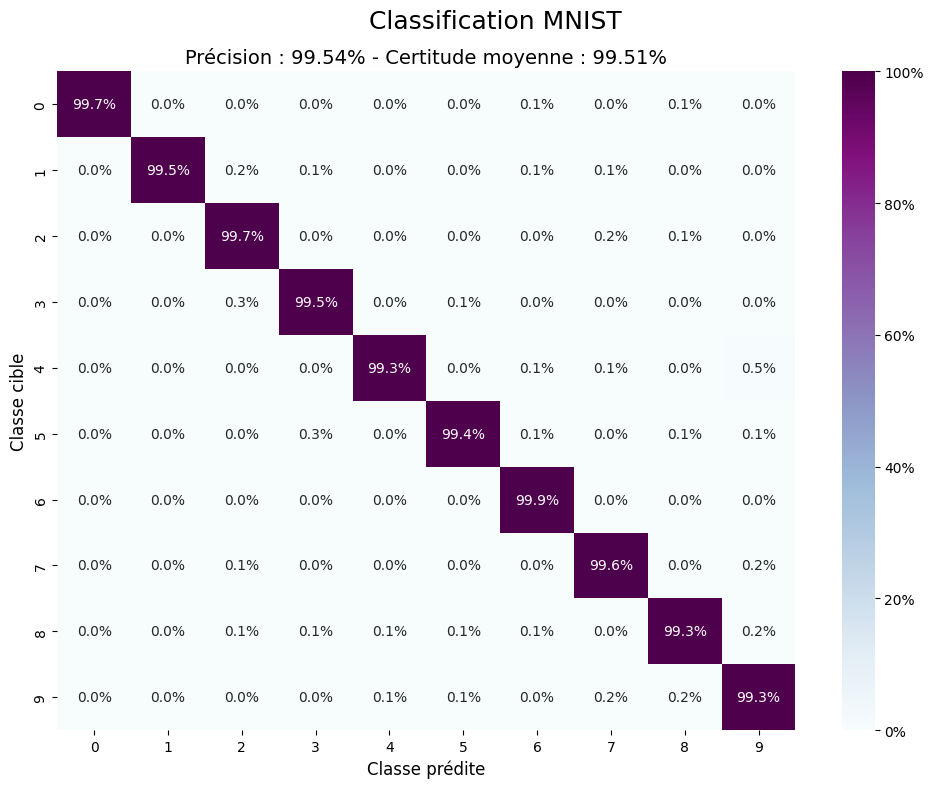
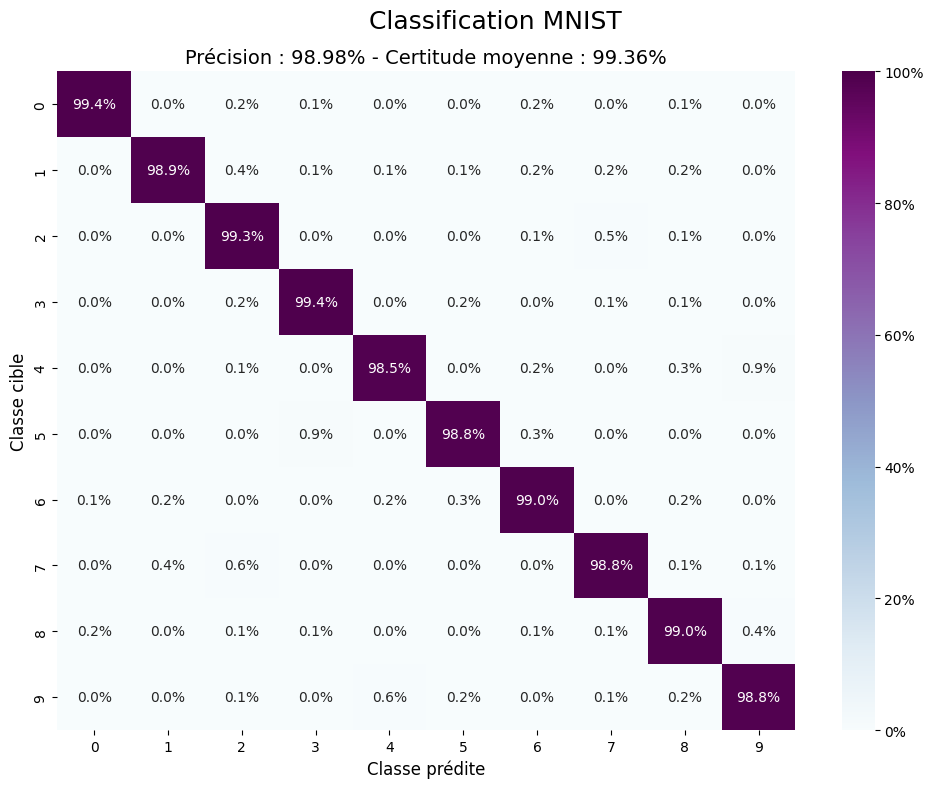
Small changes

diff --git a/Sources/code/other/dataset_classification.py b/Sources/code/other/dataset_classification.py
@@ -15,8 +15,8 @@ classifier, _ = models.select_model(models.list_models(
 (x_train, y_train), (x_test, y_test) = tf.keras.datasets.mnist.load_data()
 x_train, x_test = utils.preprocess_dataset(x_train, x_test)
 
-guessed, _, certainties = utils.classify(x_train, classifier)
-cm = confusion_matrix(y_train, guessed, labels=np.arange(10))
+guessed, _, certainties = utils.classify(x_test, classifier)
+cm = confusion_matrix(y_test, guessed, labels=np.arange(10))
 plots.compute_confusion_matrix(
     cm,
     certainties,
@@ -32,12 +32,19 @@ z_train = latent.encode(
     n_times=2
 )
 
-guessed, _, certainties = latent.classify_mt(z_train, z_train, y_train)
-cm = confusion_matrix(y_train, guessed, labels=np.arange(10))
+z_test = latent.encode(
+    autoencoder,
+    x=x_test,
+    y=y_test,
+    n_times=2
+)
+
+guessed, _, certainties = latent.classify_mg(z_test, z_train, y_train)
+cm = confusion_matrix(y_test, guessed, labels=np.arange(10))
 plots.compute_confusion_matrix(
     cm,
     certainties,
     np.arange(10),
     cache.RESULTS_FOLDER / "DatasetClassification" / "vae-classification.png",
-    "Classification MNIST"
+    "Classification MNIST (QDA)"
 )

diff --git a/Sources/code/transform/transform_confusion.py b/Sources/code/transform/transform_confusion.py
@@ -37,7 +37,7 @@ def process_class_translations(source_class, z_test, y_test, z_train, y_train, r
     y_src = np.repeat([source_class], len(z_class) * 10)
     y_dst = np.tile(np.arange(10), len(z_class))
     
-    z_dst = latent.transform_mt(z_src, y_src, y_dst, z_train, y_train)
+    z_dst = latent.transform_mg(z_src, y_src, y_dst, z_train, y_train)
 
     x_decoded = autoencoder.decoder.predict(z_dst, batch_size=128)
     x_decoded = tf.image.resize(x_decoded, (28, 28)).numpy()
@@ -60,7 +60,7 @@ def process_inverse_translations(x_decoded_first, y_dst_labels, source_class, z_
 
     y_src = [source_class]*len(z_reencoded)
 
-    z_dst = latent.transform_mt(z_reencoded, y_dst_labels, y_src, z_train, y_train)
+    z_dst = latent.transform_mg(z_reencoded, y_dst_labels, y_src, z_train, y_train)
     
     #z_inverse_trans = latent.translate(z_reencoded, y_dst_labels, y_src, distributions)
     

diff --git a/Sources/code/transform/multi_transform.py b/Sources/code/transform/multi_transform.py
@@ -61,7 +61,7 @@ y_dst_all = np.tile(np.arange(10), 100)
 
 #z_translated = latent.translate(z_src_all, y_src_all, y_dst_all, z_class_distributions)
 
-z_translated = latent.transform_mt(z_src_all, y_src_all, y_dst_all, z_train, y_train)
+z_translated = latent.transform_mg(z_src_all, y_src_all, y_dst_all, z_train, y_train)
 
 x_decoded = autoencoder.decoder.predict(z_translated)
 
@@ -69,7 +69,7 @@ _, _, z_reencoded = autoencoder.encoder.predict(x_decoded)
 
 #z_inv_translated = latent.translate(z_reencoded, y_dst_all, y_src_all, z_class_distributions)
 
-z_inv_translated = latent.transform_mt(z_reencoded, y_dst_all, y_src_all, z_train, y_train)
+z_inv_translated = latent.transform_mg(z_reencoded, y_dst_all, y_src_all, z_train, y_train)
 
 x_reconstructed = autoencoder.decoder.predict(z_inv_translated)
 

diff --git a/Sources/code/analytics/trace_confusion.py b/Sources/code/analytics/trace_confusion.py
@@ -67,7 +67,7 @@ else: # Beta-VAE
         save_cache=True
     )
 
-    z_dst = latent.transform_mt(z_src, y_src, y_dst, z_train, y_train)
+    z_dst = latent.transform_mg(z_src, y_src, y_dst, z_train, y_train)
 
 x_dst = autoencoder.decoder.predict(z_dst)
 _, _, z_invdst = autoencoder.encoder.predict(x_dst)
@@ -75,7 +75,7 @@ _, _, z_invdst = autoencoder.encoder.predict(x_dst)
 if autoencoder.decoder.requires_labels():
     z_invsrc = latent.style_class_transform(z_invdst, y_src)
 else:
-    z_invsrc = latent.transform_mt(z_invdst, y_dst, y_src, z_train, y_train)
+    z_invsrc = latent.transform_mg(z_invdst, y_dst, y_src, z_train, y_train)
     # z_invsrc = latent.translate(z_invdst, y_dst, y_src, z_class_distributions)
 
 x_invsrc = autoencoder.decoder.predict(z_invsrc)

diff --git a/Sources/code/utils/latent.py b/Sources/code/utils/latent.py
@@ -118,7 +118,7 @@ def translate(z, y_src, y_dst, class_distributions, use_std=True):
 def style_class_transform(z, y, num_classes=None):
     return (z, tf.keras.utils.to_categorical(y, num_classes=num_classes))
 
-def transform_mt(z_src, y_src, y_dst, z_train, y_train):
+def transform_mg(z_src, y_src, y_dst, z_train, y_train):
     """
     Transformation d'une distribution normale multidimensionnelle en une autre (VAE)
     """
@@ -249,7 +249,7 @@ def transform_ot(z, y_src, y_dst, mappings):
             z_dst[mask] = scaler.inverse_transform(transformed)
     return z_dst
 
-def classify_mt(z, z_train, y_train):
+def classify_mg(z, z_train, y_train):
     qda = QuadraticDiscriminantAnalysis()
     qda.fit(z_train, y_train)
 

diff --git a/Sources/code/models/training/trace_classifier.py b/Sources/code/models/training/trace_classifier.py
@@ -121,7 +121,7 @@ if __name__ == "__main__":
             save_cache=True
         )
 
-        z_dst = latent.transform_mt(z_src, y_src, y_dst, z_train_l, y_train_l)
+        z_dst = latent.transform_mg(z_src, y_src, y_dst, z_train_l, y_train_l)
 
     x_dst = autoencoder.decoder.predict(z_dst)
 

diff --git a/Sources/code/models/training/trace_detector.py b/Sources/code/models/training/trace_detector.py
@@ -121,7 +121,7 @@ if __name__ == "__main__":
             save_cache=True
         )
 
-        z_dst = latent.transform_mt(z_src, y_src, y_dst, z_train_l, y_train_l)
+        z_dst = latent.transform_mg(z_src, y_src, y_dst, z_train_l, y_train_l)
 
     x_dst = autoencoder.decoder.predict(z_dst)
 
